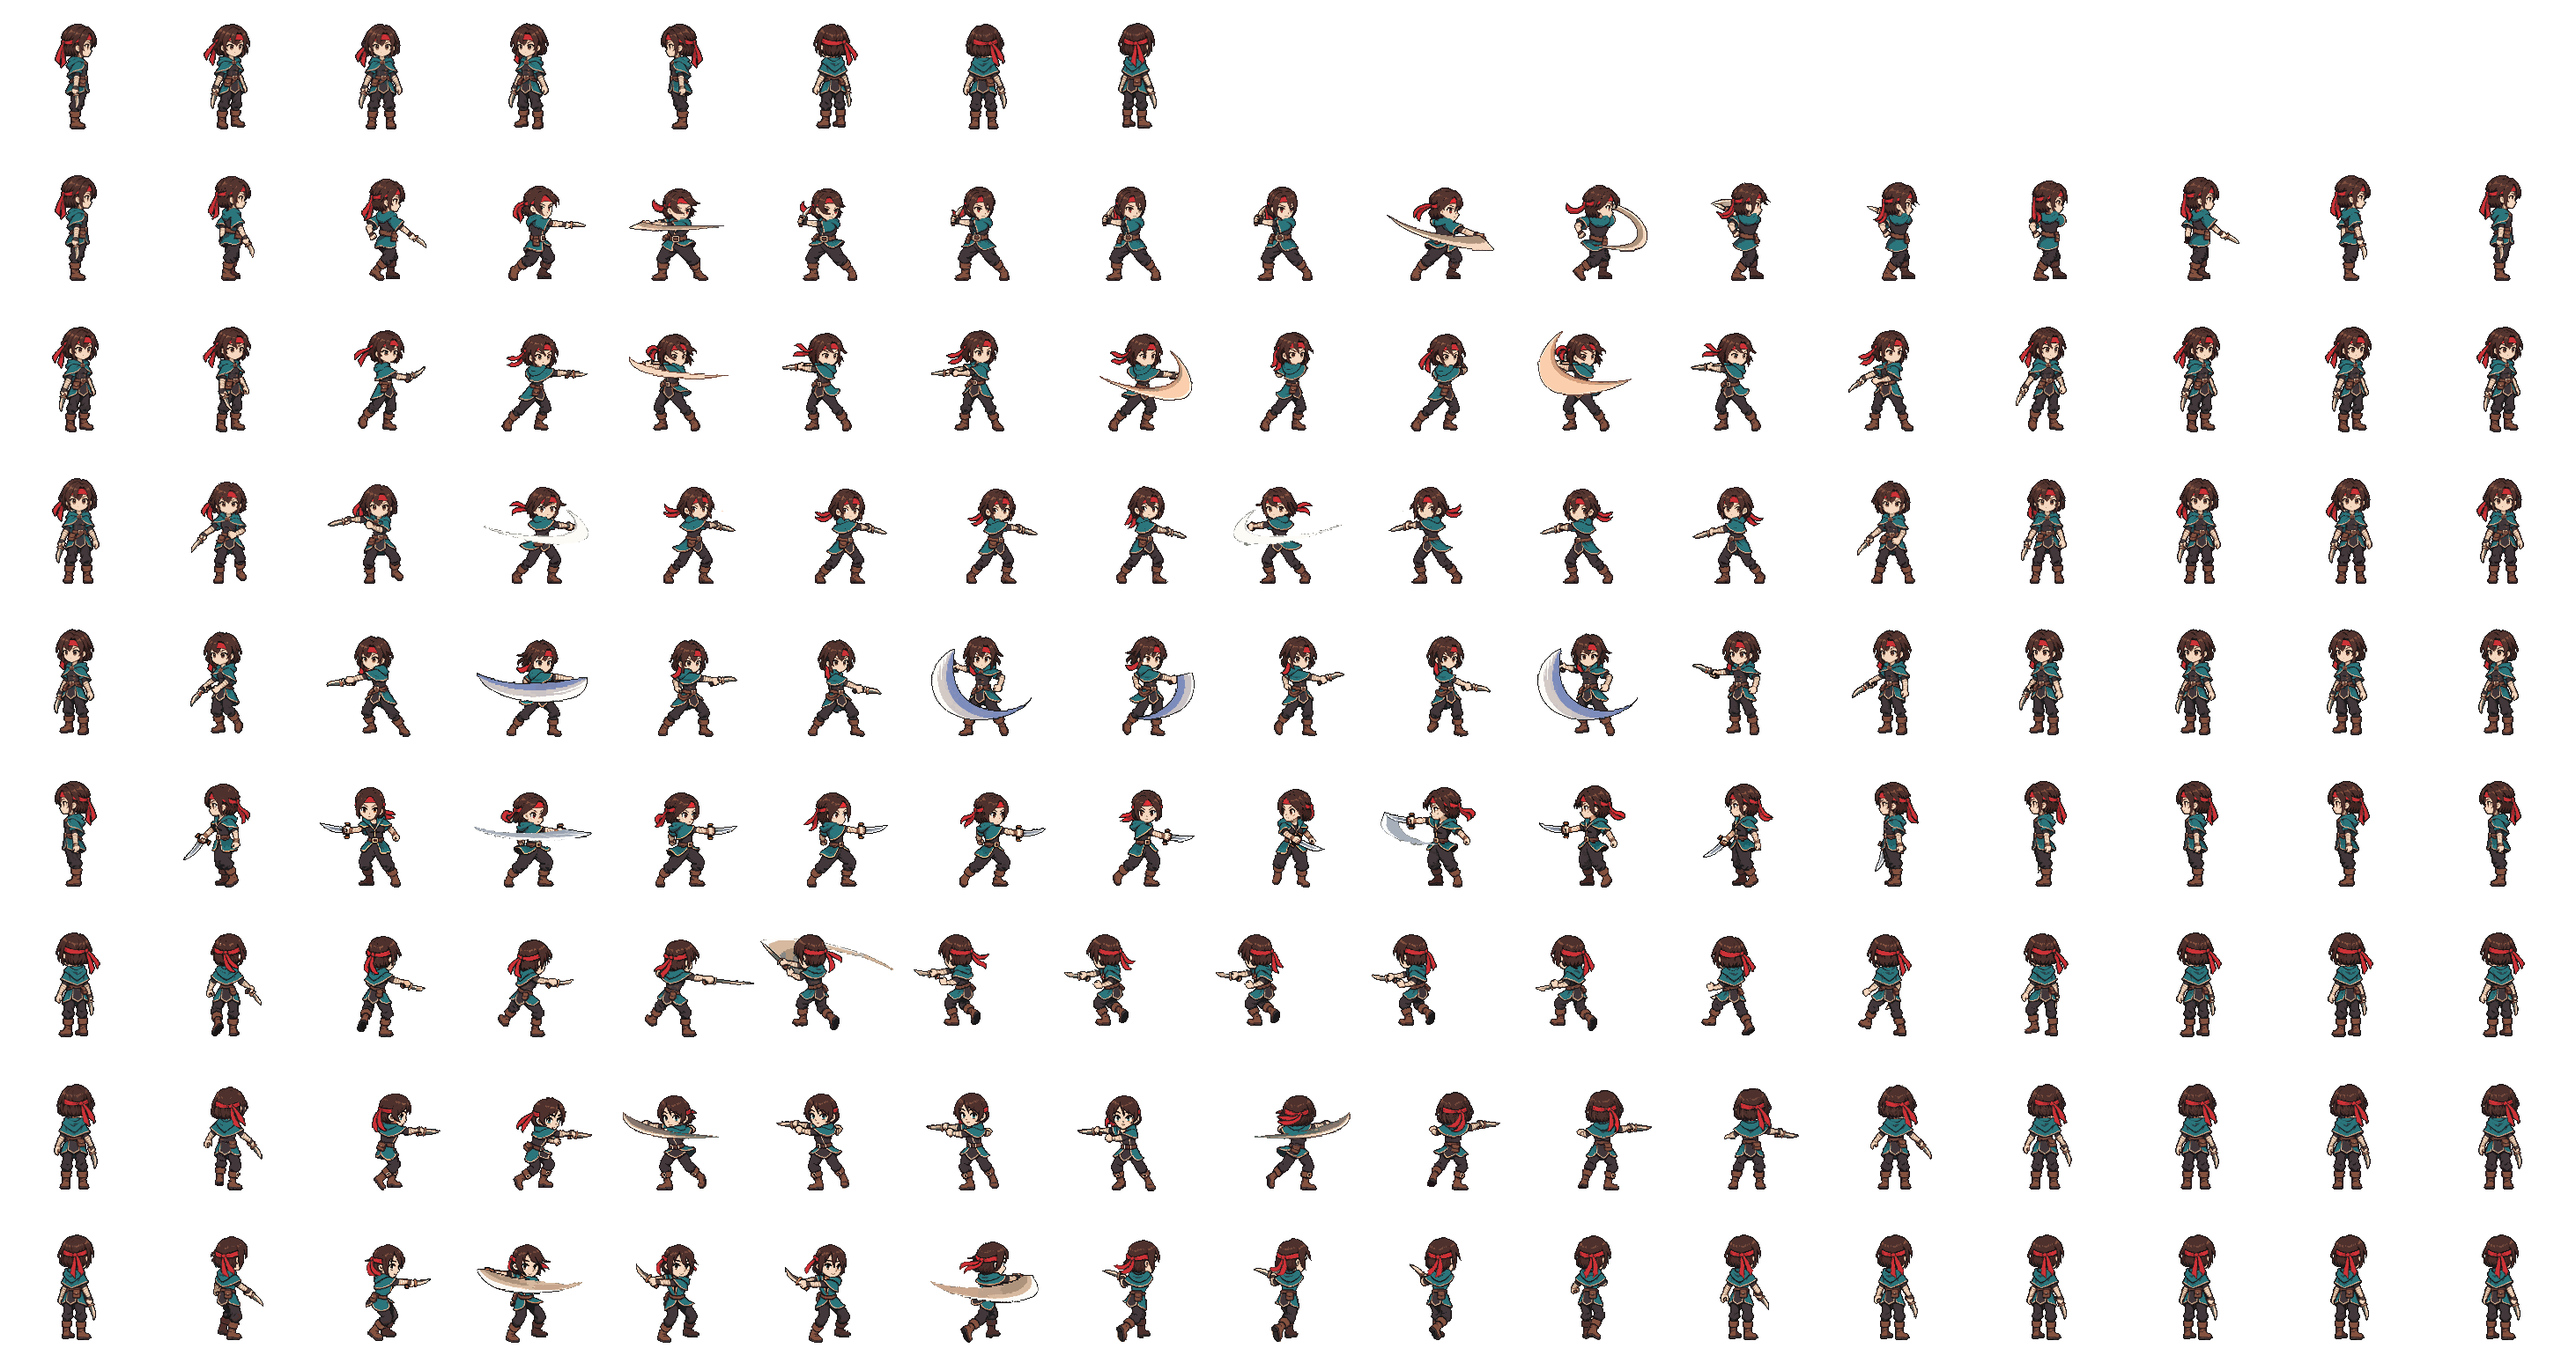
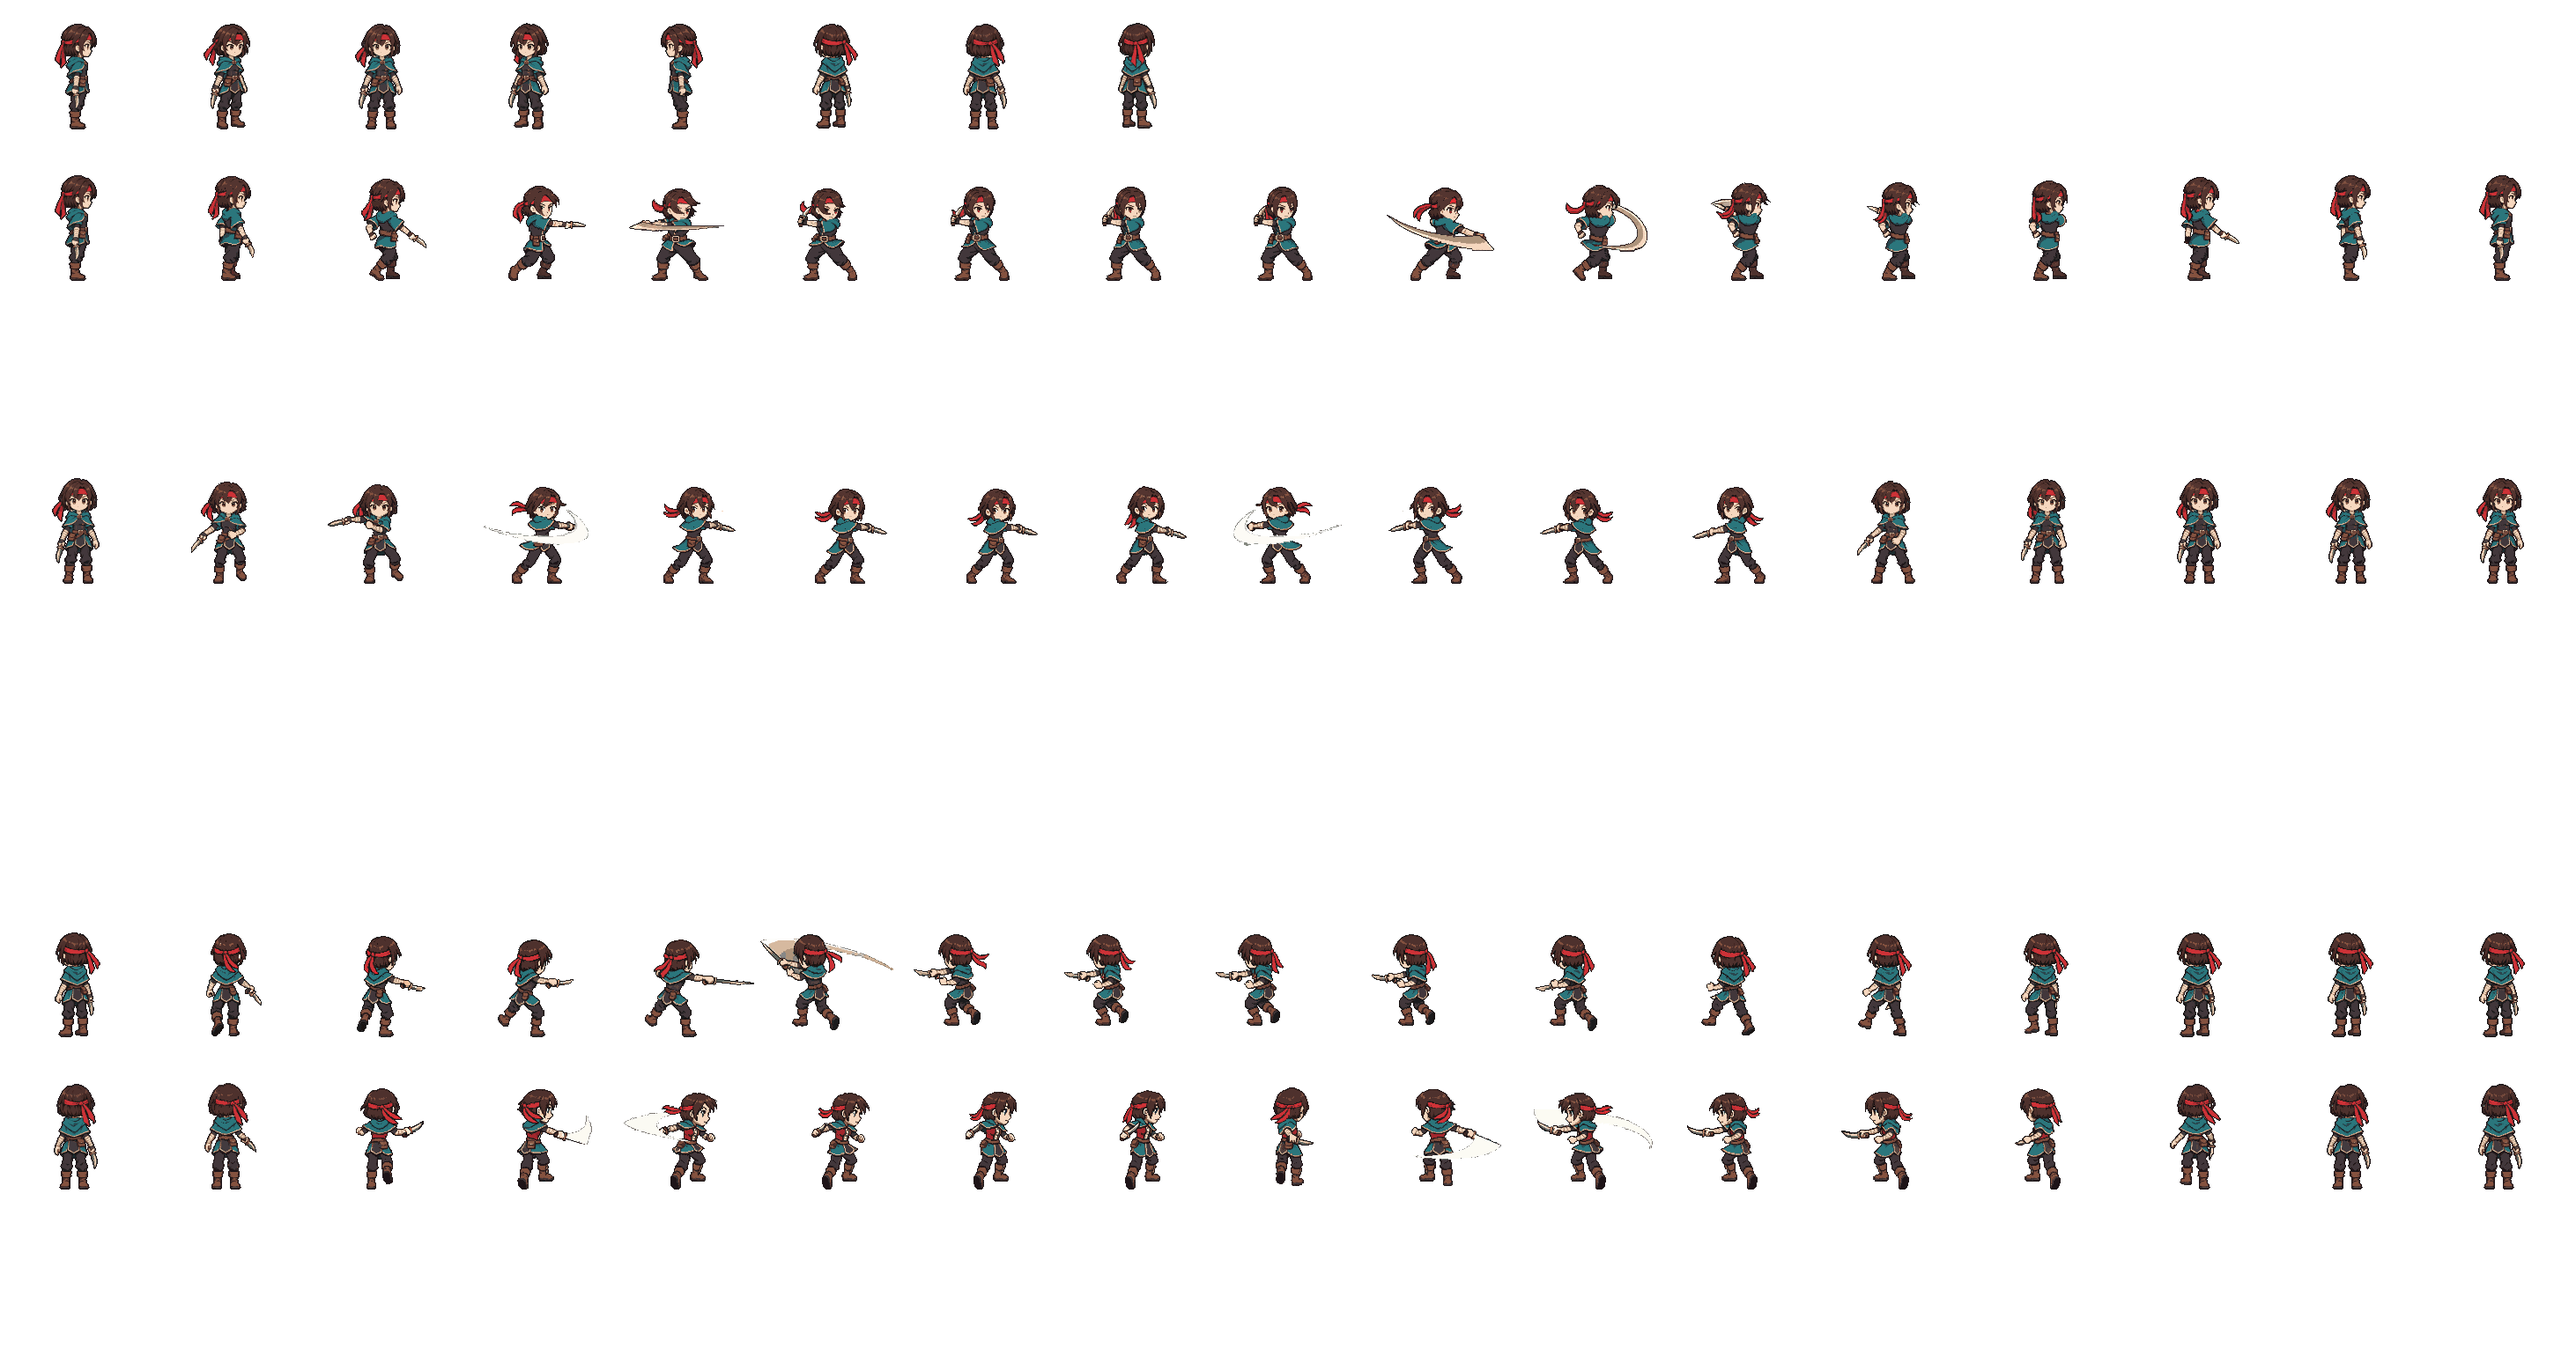
Action prototype: cleaner attacks in the up and lower-diagonal directions
North uses a redone back-view attack. North-east mirrors north-west, and
south-east, south-west and west play the clean east clip (mirrored on the
left), because PixelLab turned her round mid-attack in those directions.
act_sheet.py gains --skip, --alias and folder fallbacks for redone runs.

diff --git a/action.html b/action.html
@@ -194,7 +194,7 @@ const ROLL = {t: .32, sp: 430, cost: 26};
 function dirOf(dx, dy) { return ((Math.round(Math.atan2(dy, dx) / (Math.PI / 4)) % 8) + 8) % 8; }
 const DV = [...Array(8)].map((_, i) => [Math.cos(i * Math.PI / 4), Math.sin(i * Math.PI / 4)]);
 function animRow(name, dir) {
-  const A = META.anims[name] || {}, R = (v, flip) => ({r: v.r, n: v.n, hits: v.hits, flip});
+  const A = META.anims[name] || {}, R = (v, flip) => ({r: v.r, n: v.n, hits: v.hits, flip: flip !== !!v.flip});
   if (A[DIRS[dir]]) return R(A[DIRS[dir]], false);
   const m = (12 - dir) % 8; if (A[DIRS[m]]) return R(A[DIRS[m]], true);        // mirror (weapon swaps hands)
   for (let k = 1; k < 5; k++) for (const s of [1, -1]) { const d = (dir + s * k + 8) % 8; if (A[DIRS[d]]) return R(A[DIRS[d]], false); }

diff --git a/tools/art/act_sheet.py b/tools/art/act_sheet.py
@@ -14,6 +14,14 @@ for a in sys.argv[3:]:
     if a.startswith('--hits='):
         for part in a[7:].split(';'):
             d, fs = part.split(':'); FIX[d] = [int(f) for f in fs.split(',')]
+# --skip=<dir>,<dir> leaves those directions empty so the game mirrors the opposite side instead (a bad run)
+SKIP = set(sum([a[7:].split(',') for a in sys.argv[3:] if a.startswith('--skip=')], []))
+# --alias=<dir>:<from dir>[~],... plays another direction's frames instead (~ = mirrored), e.g. the clean east clip
+ALIAS = {}
+for a in sys.argv[3:]:
+    if a.startswith('--alias='):
+        for part in a[8:].split(','):
+            d, f = part.split(':'); ALIAS[d] = (f.rstrip('~'), f.endswith('~')); SKIP.add(d)
 anims = [a.split('=') for a in sys.argv[3:] if not a.startswith('--')]
 DIRS = ['east', 'south-east', 'south', 'south-west', 'west', 'north-west', 'north', 'north-east']
 rows = []  # (name, dir, [frames])
@@ -21,7 +29,10 @@ rot = [Image.open(os.path.join(src, 'rotations', d + '.png')).convert('RGBA') fo
 C = rot[0].width
 for name, folder in anims:
     for d in DIRS:
-        fs = sorted(glob.glob(os.path.join(src, 'animations', folder, d, 'frame_*.png')))
+        fs = []
+        for f in folder.split(','):   # attack=a,b: a redo in folder b replaces folder a for the directions b has
+            fs = sorted(glob.glob(os.path.join(src, 'animations', f, d, 'frame_*.png'))) or fs
+        if d in SKIP: fs = []
         fr = [Image.open(f).convert('RGBA') for f in fs]
         if fr: C = max(C, fr[0].width)
         rows.append((name, d, fr))
@@ -43,6 +54,10 @@ for j, (name, d, fr) in enumerate(rows):
     o = (C - fr[0].width) // 2 if fr else 0
     for i, im in enumerate(fr): sheet.alpha_composite(im, (i * C + o, (1 + j) * C + o))
     meta['anims'].setdefault(name, {})[d] = {'r': 1 + j, 'n': len(fr), 'hits': FIX.get(d) or hits(fr)} if fr else None
+for name in meta['anims']:
+    for d, (f, mir) in ALIAS.items():
+        v = meta['anims'][name].get(f)
+        if v: meta['anims'][name][d] = dict(v, flip=mir, alias=f)
 os.makedirs(os.path.dirname(out) or '.', exist_ok=True)
 sheet.save(out, optimize=True)
 json.dump(meta, open(os.path.splitext(out)[0] + '.json', 'w'), indent=1)

diff --git a/docs/action-game.md b/docs/action-game.md
@@ -30,6 +30,7 @@ animation, skills fire instantly as big effects, telegraph rings, a dodge button
 | 2026-11-08 | animate_character pixminimax 8 frames, east only, "attack_2hit" (forward slash + backhand slash, back to stance) | group 4923405d-94db-47e3-89dc-9d0c42582e98 | 1 | done — canvas 172×172, 9 frames incl. the reference (`pl_dl/Idle/animations/attack_2hit/east/`, sheet `attack_2hit_east_sheet.png`, gif `attack_2hit_east.gif`). Hit 1 = forward thrust (frames 2–3) good; hit 2 (frames 4–6) sweeps BEHIND her to the left and her body turns toward the camera — waiting for the owner: keep as a spin slash or redo | owner: "ไม่ชัดเลย" → redone below |
 | 2026-11-08 | animate_character pixminimax 16 frames, east, "attack_2hit_b" (owner: slash left-right there and back, whole body + legs moving): step + forehand sweep in front, second step + backhand sweep in front, settle | group 8bc94204-f588-4a93-8feb-60156d39633d | 1 (16 frames billed 1 at 128) | ✅ much better: 17 frames, hit 1 = horizontal sweep on frame 4, hit 2 = big sweep on frame 9 (PixelLab drew its own blade smears anyway, they look good), legs step and widen; frames 5–8 are almost the same wind-up pose (skip 6–7 in the game to keep it snappy); 10–12 follow-through over the shoulder, 13–16 back to standing. Previews `attack_2hit_b_east{,_slow}.gif`, `_sheet.png` (`tools/art/pl_preview.py`) |
 | 2026-11-08 | same group, the other 7 directions one at a time (owner "ทำเลย"); prompt = east's with "facing <dir>" instead of side view | group 8bc94204-f588-4a93-8feb-60156d39633d | 1 each (7) | all done. Hits found by width (`act_sheet.py`): E 4,9 · SE 4,7,10 · S 3,8 · SW 3,6,10 · W 3,9 · NW 3,5 (by hand `--hits=north-west:3,5`) · N 4,8 · NE 3,6. Quality: SE / S / SW turn left-right between swings (reads as a flurry, OK); W turns to face right in frames 4–7 (reads as a spin); **N and NE are wrong: she turns round to face the camera mid-attack**. NW used a much firmer back-view prompt ("seen from BEHIND for the whole clip … she NEVER turns around … her face is never visible") and kept her back to the camera → use that wording for back views; redo N and NE with it (2 credits, waiting for the owner) |
+| 2026-11-08 | redo N then NE with the back-view wording, new animation "attack_back" (owner: "หน้ากับหลังใช้คำสั่งแยกก็ได้") | group 3113d083-9ed6-42b5-b299-bba6daf42df1 | 1 (N only) | N redo: no longer faces the camera but still turns side-on mid-attack — better than the first, used. NE NOT redone: the game mirrors NW (clean back view) instead (`--skip=north-east`). Owner found SE / SW odd (she turns left-right between swings) and W turns mid-attack → they now play the clean east clip (`--alias=south-east:east,south-west:east~,west:east~`, ~ = mirrored). Build command: `python tools/art/act_sheet.py art/incoming/action/rogue/pl_dl/Idle art/action/rogue.png attack=attack_2hit_b,attack_back "--hits=north-west:3,5" --skip=north-east "--alias=south-east:east,south-west:east~,west:east~"` |
 
 Balance after: 4.25 of 40 (trial key, 2026-11-08). The owner has another key too.
 Download the ZIP only between jobs (`/mcp/characters/<id>/download` answers "still being generated" while a job runs).
